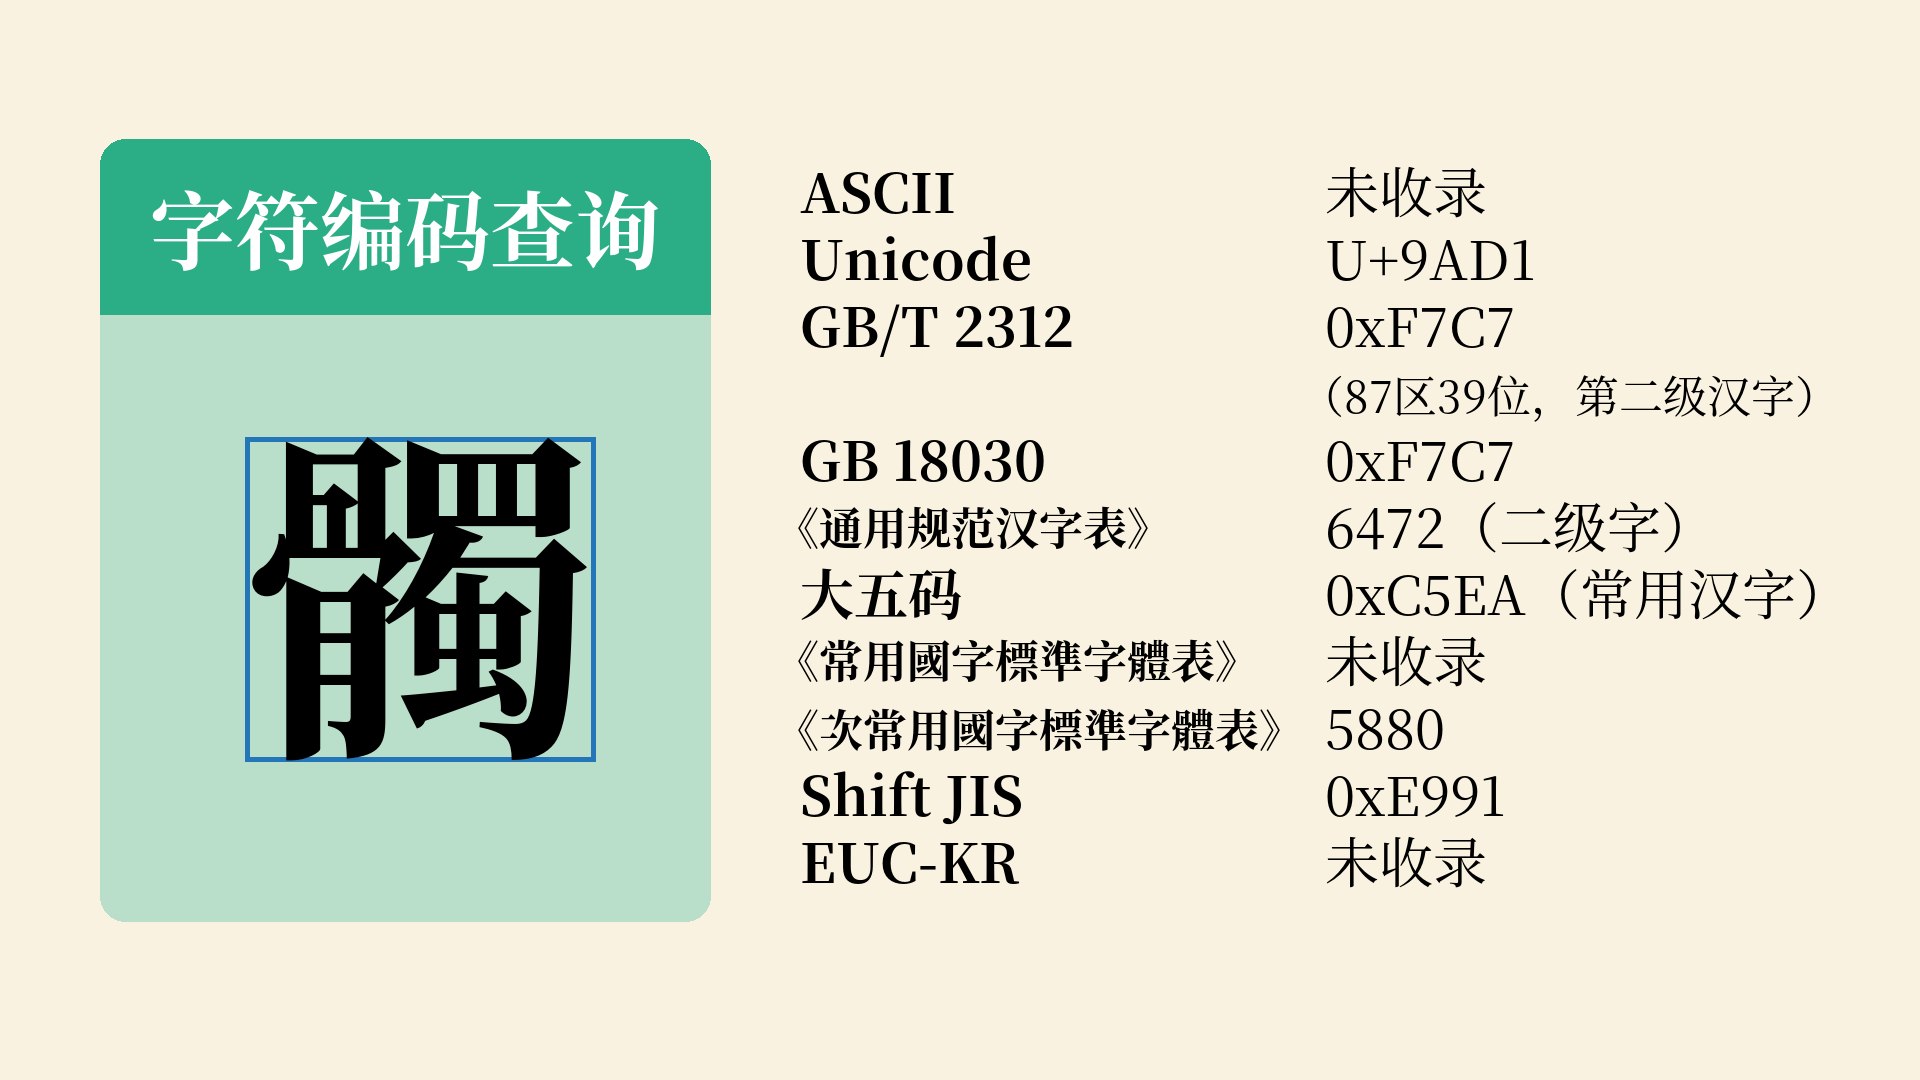
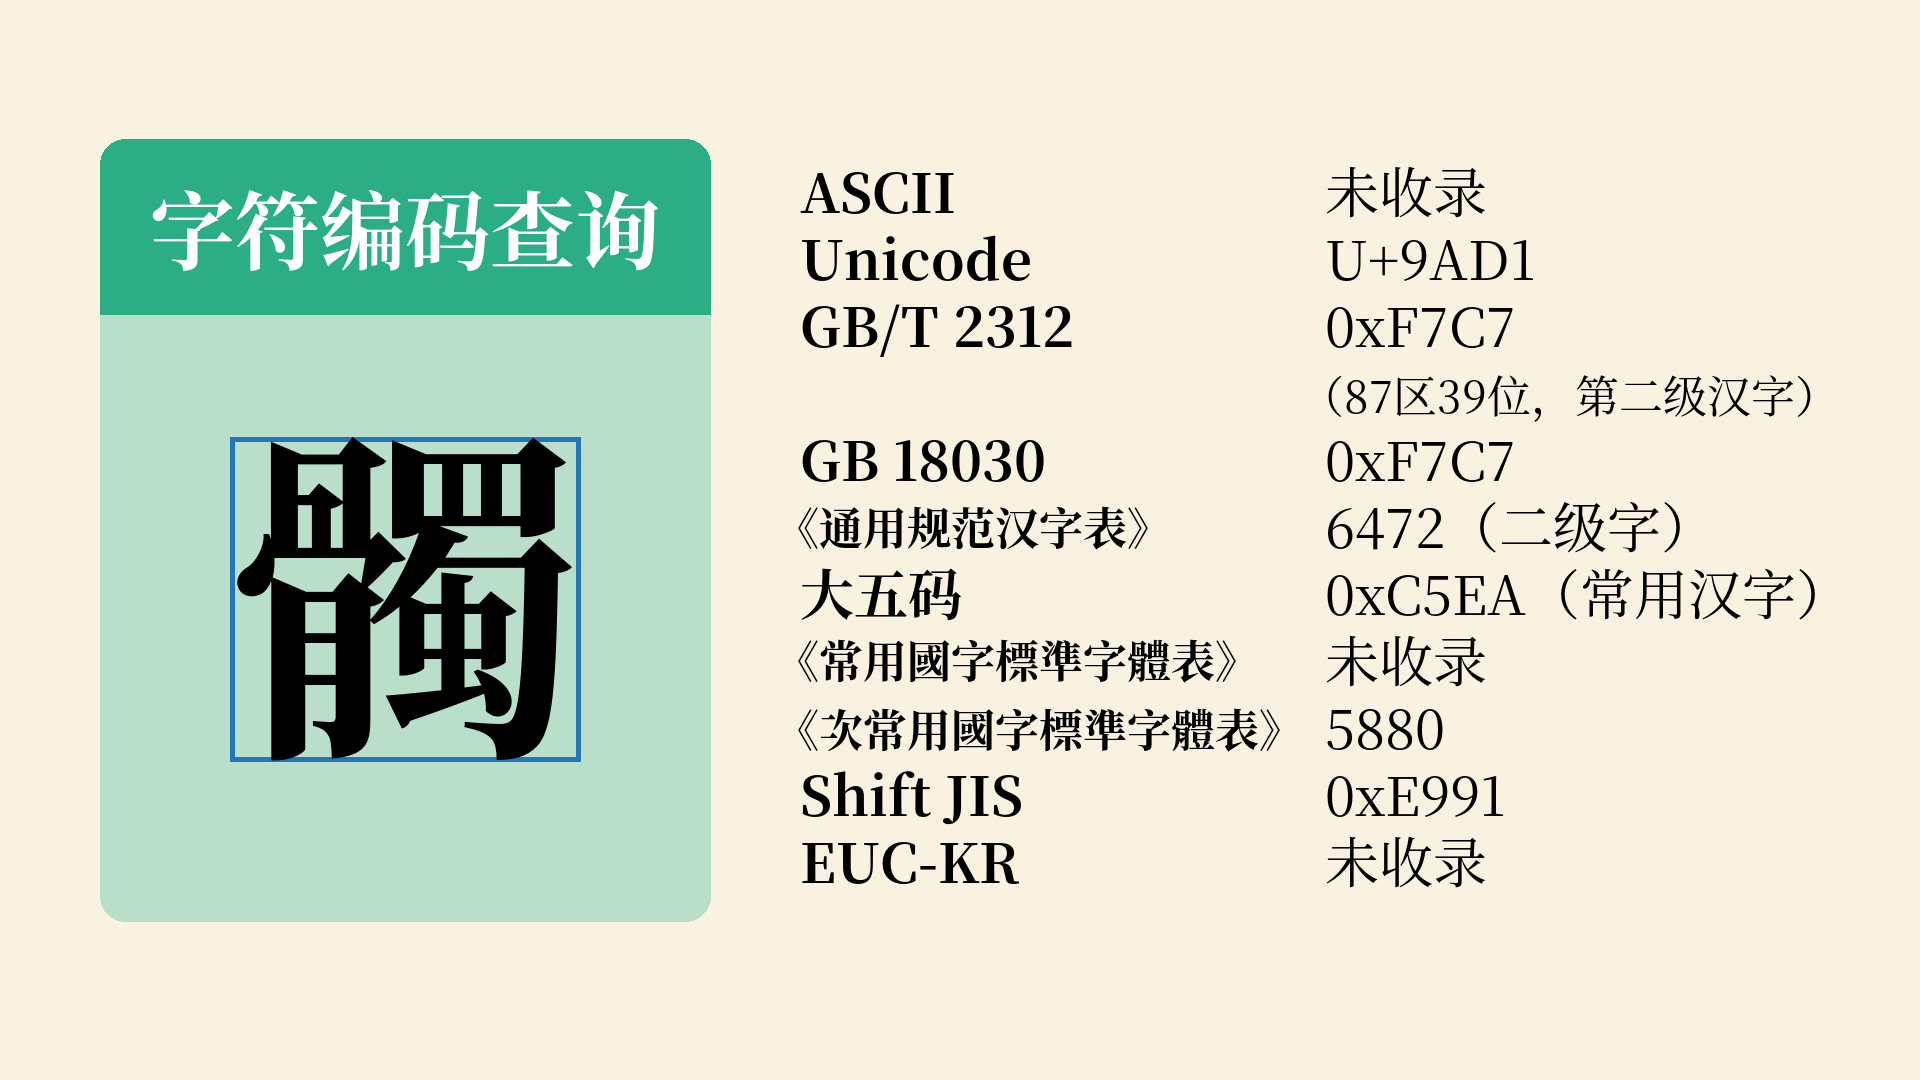
Fix

Changed region(s): [[0.0938, 0.3972, 0.3125, 0.7028]]

diff --git a/output_image.py b/output_image.py
@@ -84,12 +84,12 @@ font = TTFont(os.path.join(FONT_PATH, "SourceHanSerifSC-Bold.otf"))
 unicode_map = font["cmap"].tables[0].ttFont.getBestCmap()
 if "CJK" in unicodedata.name(character):
     if ord(character) in unicode_map.keys():
-        text_position = (245, 325)
+        text_position = (230, 325)
         character_font = ImageFont.truetype(
             os.path.join(FONT_PATH, "SourceHanSerifSC-Bold.otf"), 350
         )
     else:
-        text_position = (245, 375)
+        text_position = (230, 375)
         character_font = ImageFont.truetype(
             os.path.join(FONT_PATH, "BabelStoneHan.ttf"), 350
         )
